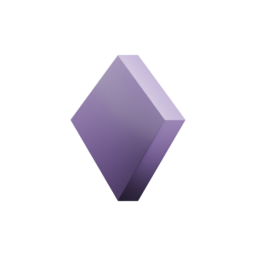
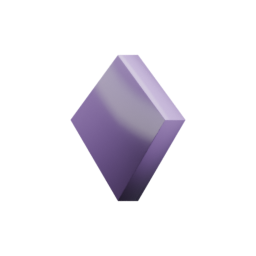
Put the gloss back on the gems
Going opaque fixed the value but 0.34 roughness was the bolt's kind of
surface, and it cost the stone the one thing transmission had been doing
well: a cut gem is glossy, and trading the sharp highlight for a broad
soft one made it read as painted.

A dielectric reflects only about 5 percent face on, so the gloss has to
be a full clear COAT over the colour rather than low base roughness - the
same lever the polished stones use. Brightness holds at 0x837399 and the
highlight now covers 13.6 percent of the face.

Changed region(s): [[0.4688, 0.4062, 0.6562, 0.5312]]

diff --git a/src/game/objects/itemSprites.ts b/src/game/objects/itemSprites.ts
@@ -47,7 +47,7 @@ export function itemSpriteKey(typeId: string, tier: number): string {
  * A version in the query string makes the URL new, so every client refetches
  * once and then caches again normally.
  */
-export const ITEM_ART_VERSION = 9;
+export const ITEM_ART_VERSION = 10;
 
 /** Where the renderer writes it, relative to `public/`. */
 export function itemSpritePath(typeId: string, tier: number): string {

diff --git a/tools/blender/render_items.py b/tools/blender/render_items.py
@@ -1671,13 +1671,16 @@ def dress_currency(kind: str, out):
             #
             # The bolt was always opaque, which is why it only ever needed
             # its angle corrected.
-            shader.inputs["Roughness"].default_value = 0.34
+            # POLISHED, not satin. 0.34 was the bolt's kind of surface and
+            # it cost the stone the one thing transmission had been doing
+            # well: a cut gem is glossy, and losing the sharp highlight for
+            # a broad soft one made it read as painted. A dielectric only
+            # reflects about 5 percent face on, so the gloss has to come
+            # from a full clear COAT over the colour rather than from base
+            # roughness, the same way the polished stones get theirs.
+            shader.inputs["Roughness"].default_value = 0.14
             shader.inputs["IOR"].default_value = 1.75
-            # The highlight the drawing puts on the face, as a real coat
-            # rather than a painted-on blob. Light, like the bolt's.
-            shader.inputs["Coat Weight"].default_value = 0.25
-            shader.inputs["Coat Roughness"].default_value = 0.05
-            shader.inputs["Coat IOR"].default_value = 1.5
+            polished(material, coat_roughness=0.03)
         # A REAL CHAMFER on the credit pieces. The drawn coin has a stroked
         # outline inside its edge, and on a solid that is a chamfered rim -
         # at 0.010 on a 0.042-thick coin it was a hairline and the edge read
